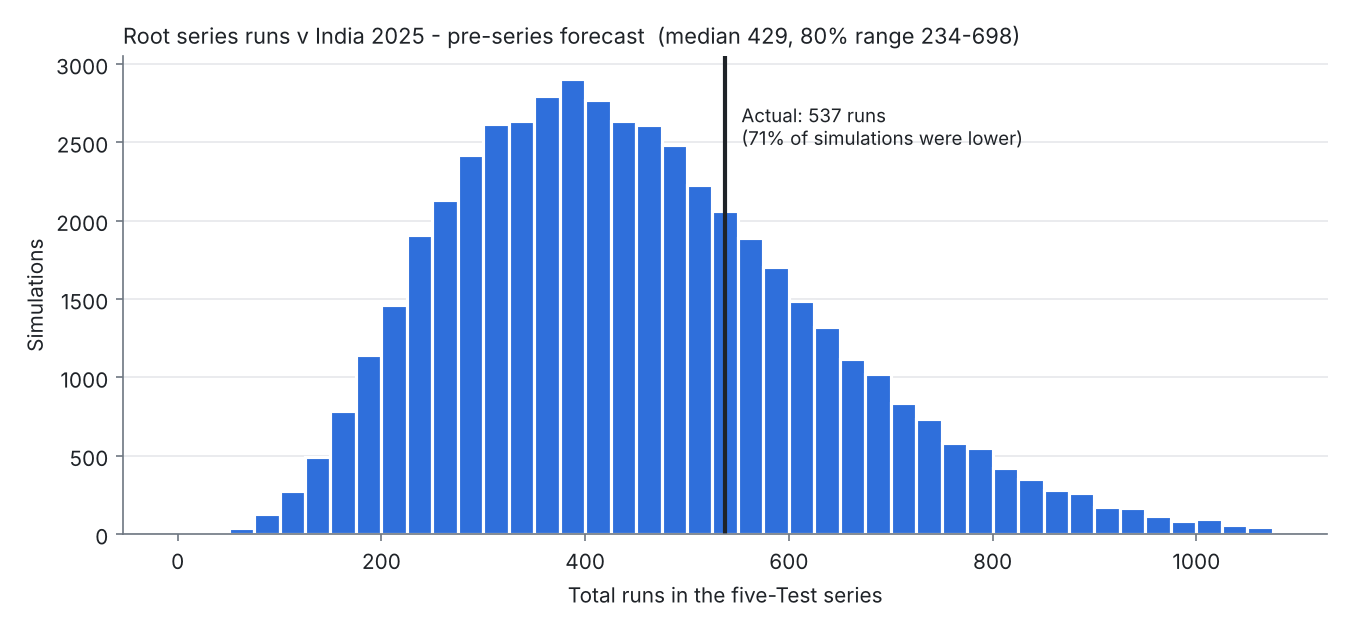
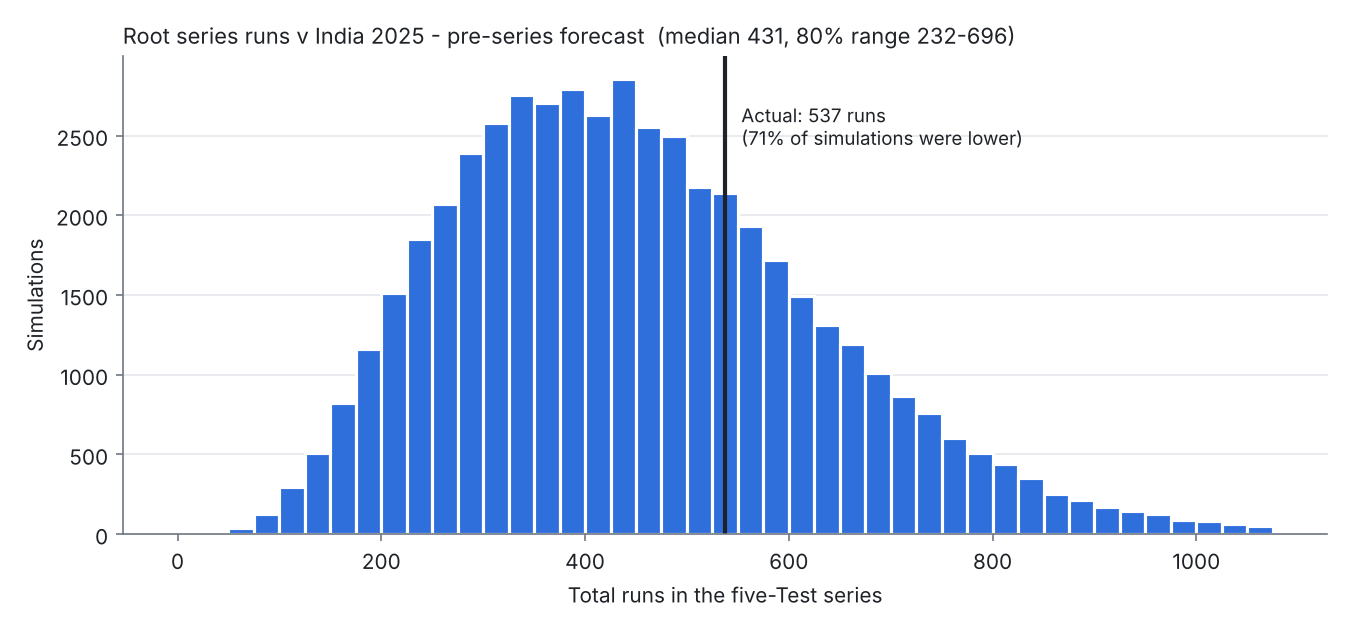
Cover the project's three aims: runs per Test and average, series total, series result
- Forecast Root's runs per Test and series batting average, with actuals per Test
- Add England home Test results and a series-outcome forecast linked to Root's runs
- Rewrite README around the three questions, plain hyphens throughout

Claude-Session: https://claude.ai/code/session_01X3BKyBYMTBqK7zG1RNwQRn

diff --git a/root_model.py b/root_model.py
@@ -205,16 +205,67 @@ def p_second_innings(df, asof) -> float:
     return float((per_test >= 2).mean())
 
 
+NOT_OUT_RATE = 26 / 309   # share of Root's Test innings ending not out (career)
+
+
 def simulate_series(df, p: Params, n_tests=5, asof=SERIES_START, sims=50_000, seed=1):
+    """Simulate Root's series innings by innings.
+
+    Returns per-Test runs (sims x n_tests), innings batted and dismissals, so we
+    can report runs per Test, series total and batting average.
+    """
     rng = np.random.default_rng(seed)
     f1 = forecast(df, asof, True, True, p)
     f2 = forecast(df, asof, True, False, p)
     p2 = p_second_innings(df, asof)
     ks = np.arange(len(f1.pmf))
-    first = rng.choice(ks, size=(sims, n_tests), p=f1.pmf).sum(1)
-    second = (rng.choice(ks, size=(sims, n_tests), p=f2.pmf) *
-              (rng.random((sims, n_tests)) < p2)).sum(1)
-    return f1, f2, p2, first + second
+    first = rng.choice(ks, size=(sims, n_tests), p=f1.pmf)
+    bats2 = rng.random((sims, n_tests)) < p2
+    second = rng.choice(ks, size=(sims, n_tests), p=f2.pmf) * bats2
+    innings = n_tests + bats2.sum(axis=1)
+    not_outs = rng.binomial(innings, NOT_OUT_RATE)
+    dismissals = np.maximum(innings - not_outs, 1)
+    return f1, f2, p2, first + second, innings, dismissals
+
+
+# --------------------------------------------------------------------------
+# Series outcome: link Root's match runs to England's result
+# --------------------------------------------------------------------------
+TESTS = Path(__file__).parent / "data" / "england_home_tests.csv"
+RUN_BUCKETS = [-1, 49, 99, 10_000]
+BUCKET_LABELS = ["<50", "50-99", "100+"]
+RESULTS = ["won", "draw", "lost"]
+
+
+def result_given_root_runs(df, asof=SERIES_START, prior=3.0) -> pd.DataFrame:
+    """England home result rates by Root's runs in the match (Tests before `asof`).
+
+    Each bucket is shrunk towards England's overall home rates with `prior`
+    pseudo-matches, so a thin bucket can't swing to extremes.
+    """
+    t = pd.read_csv(TESTS, parse_dates=["date"])
+    t = t[t.date < pd.Timestamp(asof)]
+    match_runs = df[df.home].groupby("date").runs.sum().rename("root_runs")
+    j = t.merge(match_runs, left_on="date", right_index=True)    # Tests Root played
+    j["bucket"] = pd.cut(j.root_runs, RUN_BUCKETS, labels=BUCKET_LABELS).astype(str)
+    counts = (pd.crosstab(j.bucket, j.result)
+              .reindex(index=BUCKET_LABELS, columns=RESULTS, fill_value=0))
+    overall = counts.sum() / counts.values.sum()
+    rates = (counts + prior * overall).div(counts.sum(axis=1) + prior, axis=0)
+    rates["matches"] = counts.sum(axis=1)
+    return rates
+
+
+def simulate_outcome(per_test_runs, rates, seed=2):
+    """Turn simulated Root match runs into England W/D/L per Test, then a series result."""
+    rng = np.random.default_rng(seed)
+    idx = np.digitize(per_test_runs, RUN_BUCKETS[1:-1], right=True)   # 0,1,2 bucket
+    probs = rates[RESULTS].to_numpy()[idx]                            # sims x tests x 3
+    u = rng.random(per_test_runs.shape)[..., None]
+    outcome = (u > probs.cumsum(-1)).sum(-1)                          # 0 win, 1 draw, 2 loss
+    eng = (outcome == 0).sum(axis=1)
+    ind = (outcome == 2).sum(axis=1)
+    return eng, ind
 
 
 def old_model_forecast(df):
@@ -343,25 +394,56 @@ def cmd_backtest(df):
 
 def cmd_series(df, p):
     OUT.mkdir(exist_ok=True)
-    f1, f2, p2, totals = simulate_series(df, p)
+    f1, f2, p2, per_test, innings, dismissals = simulate_series(df, p)
+    totals = per_test.sum(axis=1)
+    average = totals / dismissals
     actual = df[(df.opposition == "India") & (df.date >= SERIES_START) &
                 (df.date < "2025-09-01")]
+    act_tests = actual.groupby("date").runs.sum()
+    act_avg = actual.runs.sum() / (len(actual) - actual.not_out.sum())
+
     print(f"\nIndia 2025 - forecast as at {SERIES_START} (using only earlier innings)")
-    if abs(f1.mean - f2.mean) < 0.05:
-        print("  (tuned weights treat 1st/2nd and 3rd/4th innings alike, so both rows match)")
-    print(f"  Per innings, 1st/2nd match inns:  mean {f1.mean:.1f}  median {f1.median}"
-          f"  P(50+) {f1.p(50):.0%}  P(100+) {f1.p(100):.0%}")
-    print(f"  Per innings, 3rd/4th match inns:  mean {f2.mean:.1f}  median {f2.median}"
-          f"  P(50+) {f2.p(50):.0%}  P(100+) {f2.p(100):.0%}")
-    print(f"  P(bats twice in a Test) {p2:.0%}")
-    lo, hi = np.percentile(totals, [10, 90])
-    print(f"  Series total: median {np.median(totals):.0f}, mean {totals.mean():.0f}, "
+    print(f"  Per innings: mean {f1.mean:.1f}, median {f1.median}, "
+          f"P(50+) {f1.p(50):.0%}, P(100+) {f1.p(100):.0%}")
+    print(f"  Bats twice in a Test: {p2:.0%} of past home Tests")
+
+    print("\n  1. Root's runs per Test")
+    lo, hi = np.percentile(per_test[:, 0], [10, 90])
+    print(f"     Forecast for any Test: mean {per_test.mean():.0f}, "
           f"80% range {lo:.0f}-{hi:.0f}")
-    hundreds_exp = 5 * f1.p(100) + 5 * p2 * f2.p(100)
-    print(f"  Expected hundreds {hundreds_exp:.2f}")
-    print(f"\n  Actual: {actual.runs.sum()} runs in {len(actual)} innings, "
-          f"{(actual.runs >= 100).sum()} hundreds, {((actual.runs >= 50) & (actual.runs < 100)).sum()} fifties")
-    print(f"  Actual total sits at the {(totals < actual.runs.sum()).mean():.0%} percentile of the forecast")
+    for (d, r), g in zip(act_tests.items(), INDIA_2025):
+        print(f"     Actual  {g:<11} {r:>4}")
+
+    print("\n  2. Series total and average")
+    lo, hi = np.percentile(totals, [10, 90])
+    print(f"     Total:   forecast median {np.median(totals):.0f} (80% range {lo:.0f}-{hi:.0f}); "
+          f"actual {actual.runs.sum()} - {(totals < actual.runs.sum()).mean():.0%} percentile")
+    lo, hi = np.percentile(average, [10, 90])
+    print(f"     Average: forecast median {np.median(average):.1f} (80% range {lo:.0f}-{hi:.0f}); "
+          f"actual {act_avg:.1f}")
+    print(f"     Hundreds: forecast {5 * f1.p(100) + 5 * p2 * f2.p(100):.1f} expected; "
+          f"actual {(actual.runs >= 100).sum()}")
+
+    print("\n  3. Series outcome")
+    rates = result_given_root_runs(df)
+    print("     England home results by Root's runs in the match (before the series):")
+    tbl = (rates[RESULTS] * 100).round(0).astype(int).assign(matches=rates.matches)
+    tbl.index.name = "Root runs"
+    tbl.columns.name = None
+    print("     " + tbl.to_string().replace("\n", "\n     "))
+    eng, ind = simulate_outcome(per_test, rates)
+    res = pd.Series(np.select([eng > ind, eng < ind], ["England", "India"], "Drawn"))
+    share = res.value_counts(normalize=True)
+    score = pd.Series([f"{e}-{i}" for e, i in zip(eng, ind)]).value_counts(normalize=True)
+    print(f"     Series: England win {share.get('England', 0):.0%}, drawn {share.get('Drawn', 0):.0%}, "
+          f"India win {share.get('India', 0):.0%}")
+    print("     Most likely scores (England-India): " +
+          ", ".join(f"{k} {v:.0%}" for k, v in score.head(4).items()))
+    t = pd.read_csv(TESTS, parse_dates=["date"])
+    act = t[(t.opposition == "India") & (t.date >= SERIES_START) & (t.date < "2025-09-01")]
+    aw, al = (act.result == "won").sum(), (act.result == "lost").sum()
+    print(f"     Actual: {aw}-{al} (drawn series), P(2-2) was {score.get(f'{aw}-{al}', 0):.0%}")
+
     n_old, old_total = old_model_forecast(df)
     print(f"\n  Original repo approach (RF on {n_old} home innings v India, venues corrected): "
           f"{old_total:.0f} runs, single number, no uncertainty")

diff --git a/README.md b/README.md
@@ -1,67 +1,122 @@
-# Joe Root – predicting a Test innings
+# England v India 2025 - predicting Joe Root and the series
 
-**Question:** before Joe Root walks out to bat, what's the chance he makes 10, 50 or 100?
+A project to predict the 2025 India v England Test series. It set out to answer three questions before the first ball:
 
-A single "expected runs" number hides most of what matters. This model produces Root's **full score distribution** for an innings – the probability of every score – and tests it **out-of-sample** on innings it has never seen.
+1. **How many runs will Joe Root score per Test, and what will his average be?**
+2. **How many will he score across the series, and how many hundreds?**
+3. **Can we predict the series result?**
 
-![Score curve](output/root_score_curve.png)
-
-## Headline results
-
-| | |
-|---|---|
-| Data | All 309 of Root's Test innings, Dec 2012 – Sep 2026 (ESPNcricinfo Statsguru), 14,278 runs, 26 not-outs |
-| Next home innings (as at 17 Nov 2026) | Mean 51 runs, median 29 · P(50+) 37% · P(100+) 15% |
-| India 2025, forecast before the series | Median 429 runs (80% range 234–698), 1.3 hundreds expected |
-| India 2025, what happened | **537 runs**, 3 hundreds – 71st percentile of the forecast: a good series, well inside the range |
+The forecast uses only data from before the series started (20 June 2025), so it can be checked fairly against what actually happened.
 
 ![India 2025 series forecast](output/india_2025_series_forecast.png)
 
+## Results: forecast v what happened
+
+### 1. Root's runs per Test and average
+
+| | Forecast before the series | Actual |
+|---|---|---|
+| Runs per innings | 51.6 on average (median 30) | 59.7 |
+| Runs per Test | 90 on average (80% range 11-210) | 81, 28, 144, 150, 134 |
+| Series batting average | 54.0 (80% range 30-88) | **67.1** |
+
+| Test | Ground | Root's runs |
+|---|---|---|
+| 1st | Headingley | 28 & 53* = 81 |
+| 2nd | Edgbaston | 22 & 6 = 28 |
+| 3rd | Lord's | 104 & 40 = 144 |
+| 4th | Old Trafford | 150 = 150 |
+| 5th | The Oval | 29 & 105 = 134 |
+
+### 2. Series runs and hundreds
+
+| | Forecast | Actual |
+|---|---|---|
+| Series total | Median 431 runs (80% range 232-696) | **537** |
+| Where the actual sat | | 71st percentile - a good series, well inside the range |
+| Hundreds | 1.3 expected | 3 |
+
+### 3. Series result
+
+To link Root to the result, I looked at every England home Test he played before the series (79 matches) and how England got on depending on his runs in the match:
+
+| Root's runs in the match | England won | Drawn | England lost | Matches |
+|---|---|---|---|---|
+| Under 50 | 48% | 19% | 34% | 26 |
+| 50-99 | 59% | 11% | 29% | 27 |
+| 100+ | 75% | 12% | 13% | 26 |
+
+Feeding Root's simulated runs for each Test through this table gave:
+
+| | Forecast | Actual |
+|---|---|---|
+| Series winner | England 76%, drawn 11%, India 13% | **Drawn 2-2** |
+| Most likely scorelines | 4-1 (17%), 3-1 (16%), 3-2 (14%), 2-2 (10%) | 2-2 |
+
+**The series result is where the model fell short.** Root scored more than forecast, yet England only drew. The table above is based on England's home record against every opponent, and Root's runs are only one part of a Test result. India's batting and bowling, which this model doesn't look at, decided this series. Predicting results properly would need team-level data for both sides.
+
 ## What I found
 
-1. **Root's scoring is remarkably stable.** I tuned how much weight to give recent form, home vs away, and 1st/2nd vs 3rd/4th match innings on 2016–22, then tested on 2023–26. The best out-of-sample setting gave almost **equal weight to everything**: none of those factors improved predictions. For a batter this consistent, recent form is mostly noise.
-2. **Not-outs matter most in the tail.** Counting a 180\* as a dismissal at 180 understates his big-score chances. On the 2023–26 hold-out he made 100+ in 18.1% of innings; the naive count said 12.8%, the model 14.6%, and the model's log loss was 1.4% better. At 10/30/50 the two are level – that part of his distribution is well pinned down by 300 innings either way.
-3. **More model ≠ better model.** The first version (in `legacy/`) used a random forest on 25 innings and forecast **865 runs** for the series – a single number with no uncertainty, 60% above what happened. A ~40-line survival model with honest uncertainty did much better.
+1. **Root's scoring is remarkably stable.** I tuned how much weight to give recent form, home v away, and 1st/2nd v 3rd/4th match innings on 2016-22, then tested on 2023-26. The best setting gave almost equal weight to everything: none of those factors improved predictions. For a batter this consistent, recent form is mostly noise.
+2. **Not-outs matter most for big scores.** Counting a 180* as a dismissal at 180 understates his chances of big scores. On 2023-26 he made 100+ in 18.1% of innings; simply counting past scores said 12.8%, the model said 14.6%. For 10, 30 and 50 the two are level.
+3. **A bigger model isn't a better model.** The first version (in `legacy/`) used a random forest on 25 innings and forecast 865 runs for the series - a single number with no range, 60% above what happened. The simpler model with an honest range did much better.
 
-Out-of-sample, 2023–2026 (walk-forward: every prediction uses only innings that had already happened):
+## Checking the model on innings it hadn't seen
 
-| Threshold | Innings | Actual hit rate | Model avg prob | Naive avg prob | Log-loss change vs naive |
+Tuned on 2016-2022, then tested on every innings from 2023 to 2026. Each prediction uses only innings that had already happened.
+
+| Score | Innings | Actual rate | Model | Simple count of past scores | Model v simple count |
 |---|---|---|---|---|---|
-| 10+ | 76 | 78.9% | 76.0% | 75.2% | −0.2% (better) |
-| 30+ | 75 | 48.0% | 49.7% | 48.3% | +0.1% |
-| 50+ | 75 | 36.0% | 37.5% | 36.2% | +0.1% |
-| 100+ | 72 | 18.1% | 14.6% | 12.8% | **−1.4% (better)** |
+| 10+ | 76 | 78.9% | 76.0% | 75.2% | slightly better |
+| 30+ | 75 | 48.0% | 49.7% | 48.3% | level |
+| 50+ | 75 | 36.0% | 37.5% | 36.2% | level |
+| 100+ | 72 | 18.1% | 14.6% | 12.8% | **better (1.4%)** |
 
-*Naive = share of his past scores at or above the threshold, counting not-outs as dismissals. A not-out below the threshold is left out of that row's scoring, since we never learn whether he'd have got there.*
+The simple count treats not-outs as dismissals. A not-out below the score is left out of that row, since we never learn whether he'd have got there. "Better" is measured by log loss.
 
-## Method
+## Root's next innings (as at 17 Nov 2026)
 
-- **Batting as survival.** At each run Root either gets out (the *hazard*) or carries on. The hazard is held constant within bands (0, 1–4, 5–9, 10–19 … 150–199, 200+) and estimated from past innings.
-- **Not-outs are censored.** A not-out tells us he survived to that score, not where he'd have been dismissed – so it adds exposure but no dismissal.
-- **Weights.** Optional decay for older innings, and down-weighting for innings in different conditions (home/away, match innings). Tuned by walk-forward log loss.
-- **Shrinkage.** Each band's hazard is pulled towards his whole-career value, so a band with little data can't produce extreme numbers.
-- **Series.** Monte Carlo of five Tests: one first-half innings each, plus a second innings with the probability he's batted twice in past home Tests (75%).
+The same model, updated with all 309 of his Test innings to September 2026, for a home Test innings:
+
+![Score curve](output/root_score_curve.png)
+
+| Score | Chance he reaches it |
+|---|---|
+| 50+ | 37% |
+| 100+ | 15% |
+| 150+ | 8% |
+
+Expected runs 51, median 29.
+
+## How it works
+
+- **Data.** All of Root's Test innings from ESPNcricinfo Statsguru (309 innings, 14,278 runs, 26 not-outs) and England's home Test results, saved in `data/`.
+- **Batting as survival.** At each run Root either gets out or carries on. The chance of getting out is held constant within bands of runs (0, 1-4, 5-9, 10-19 ... 150-199, 200+) and estimated from his past innings.
+- **Not-outs.** A not-out tells us he survived to that score, not where he'd have been dismissed, so it counts as runs survived but not as a dismissal.
+- **Weights.** Older innings and innings in different conditions (home/away, match innings) can be given less weight. The weights were tuned on past seasons.
+- **Shrinkage.** Each band is pulled towards his whole-career figure, so a band with little data can't produce extreme numbers.
+- **Series.** Simulated 50,000 times: five Tests, one first innings each, a second innings in 75% of Tests (how often he batted twice in past home Tests), and not-outs at his career rate for the average.
+- **Result.** Each simulated Test's Root runs give England's chance of a win, draw or loss from the table above; adding up five Tests gives the series result.
 
 ## Run it
 
 ```bash
 pip install -r requirements.txt
-python root_model.py all --home --first-innings   # backtest + India 2025 + next-innings probabilities
-python root_model.py predict --asof 2026-11-17    # away / 3rd-4th innings probabilities
-python fetch_data.py                              # refresh data from Statsguru
+python root_model.py all --home --first-innings   # backtest, India 2025 forecast, next-innings chances
+python root_model.py series                       # India 2025 forecast only
+python root_model.py predict --asof 2026-11-17    # away / 3rd-4th innings chances
+python fetch_data.py                              # refresh Root's innings from Statsguru
 ```
 
 Outputs go to `output/` (`run_log.txt` has the full printout).
 
 ## Changes from the first version
 
-The original script (`legacy/Joe Root Analysis.py`) no longer ran and had modelling problems:
+The original script (`legacy/Joe Root Analysis.py`) no longer ran and had some modelling problems:
 
-- The Statsguru URL format now returns *Page Not Found*; venue names didn't match Statsguru's (*Trent Bridge/Headingley/Edgbaston* vs *Nottingham/Leeds/Birmingham*), so the forecast step would crash. The 2025 venues also included Trent Bridge instead of **Old Trafford**.
-- Not-outs were stripped of `*` and treated as dismissals.
-- A random 80/20 split let the model train on innings that came after the ones it was tested on.
-- At forecast time the form feature was fixed at its average, so form never influenced the forecast.
-- Statsguru's "Inns" is the **match** innings (1–4), but the forecast used 1 and 2 as if they meant Root's first and second innings.
-- 200 trees on 25 data points; a win model on a few dozen matches judged by accuracy.
-
-Data is now saved in `data/`, so results reproduce without scraping.
+- The Statsguru link now returns "Page Not Found", and the ground names didn't match Statsguru's ("Trent Bridge", "Headingley", "Edgbaston" v "Nottingham", "Leeds", "Birmingham"), so the forecast step would crash. The 2025 grounds also had Trent Bridge instead of Old Trafford.
+- Not-outs were counted as dismissals.
+- A random 80/20 split let the model learn from innings that came after the ones it was tested on.
+- At forecast time the form figure was fixed at its average, so form never affected the forecast.
+- Statsguru's "Inns" column is the match innings (1-4), but the forecast used 1 and 2 as if they were Root's first and second innings.
+- 200 trees on 25 innings, and a win model on a few dozen matches judged only by accuracy.
